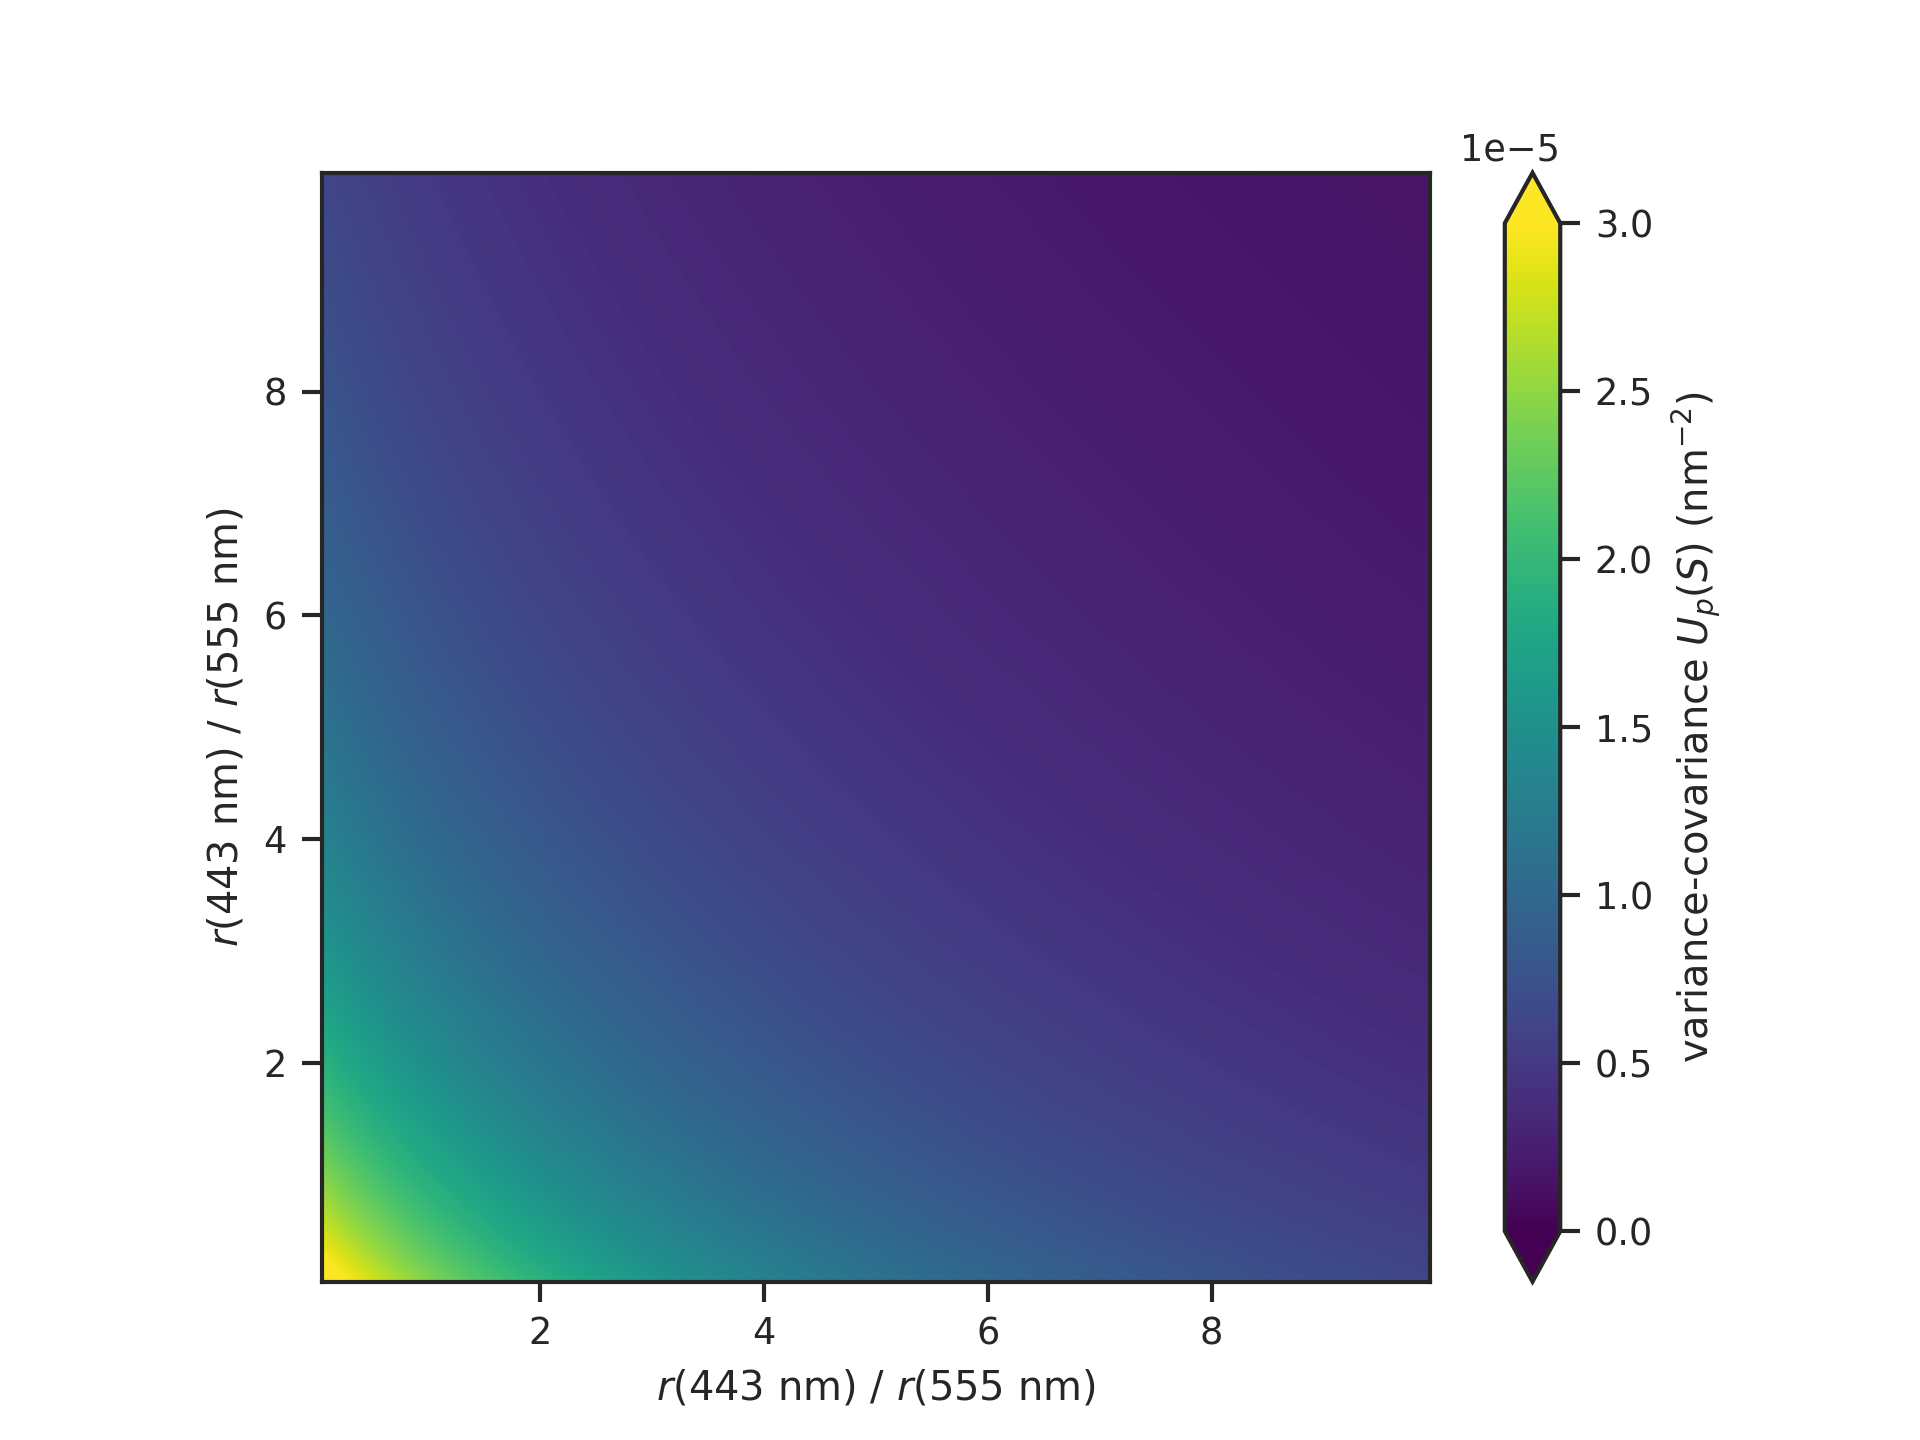
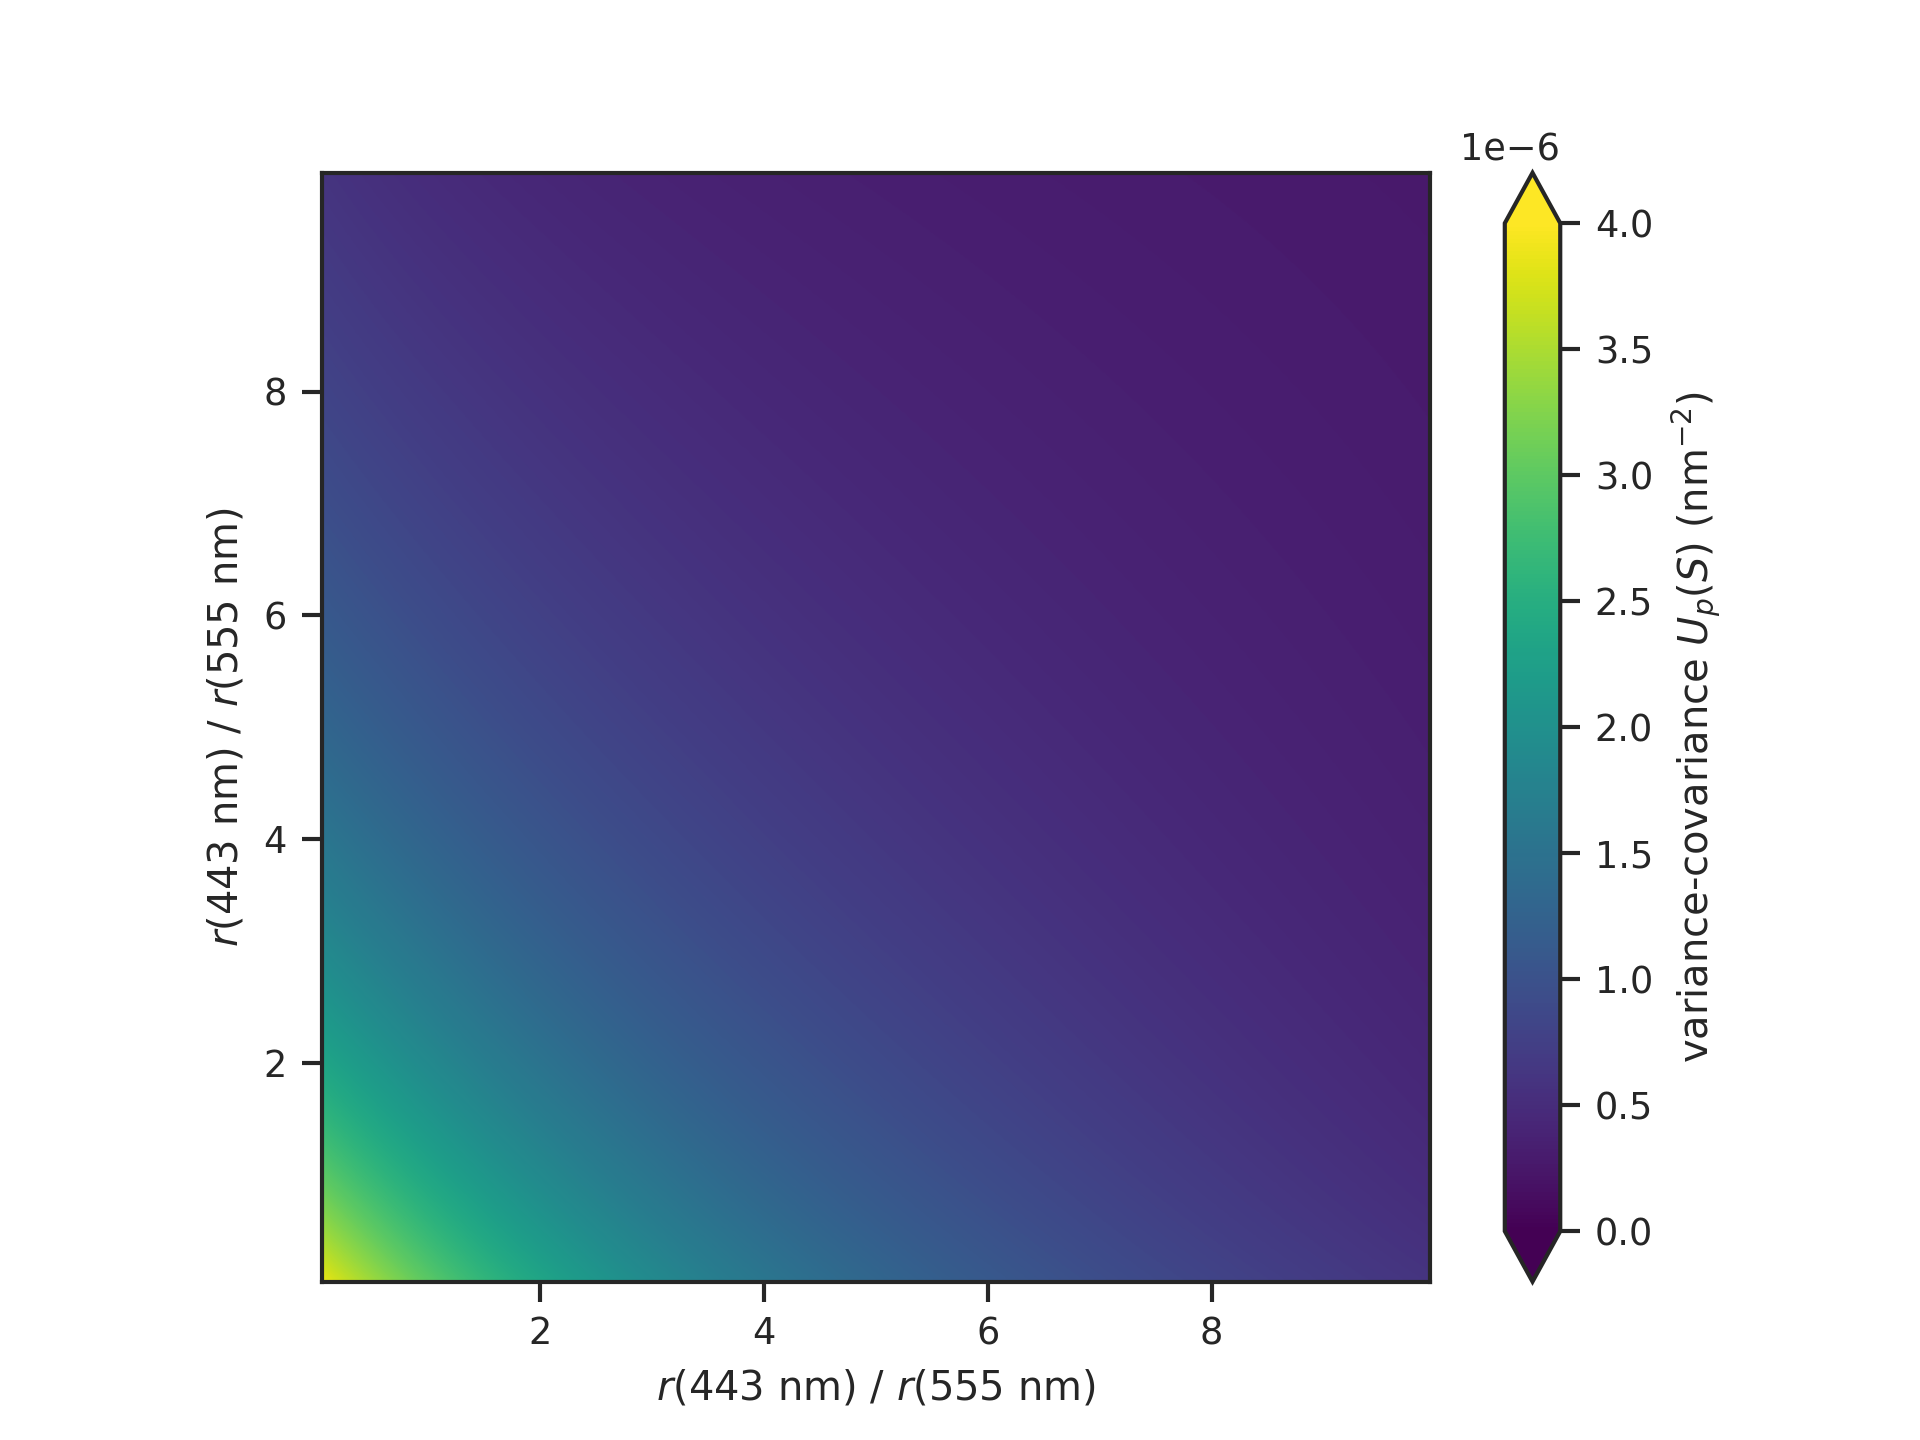
Fix: NaN in prior term

diff --git a/uncertaintyx/fit/eiv/jax.py b/uncertaintyx/fit/eiv/jax.py
@@ -5,13 +5,11 @@ from typing import Callable
 
 import jax
 import jax.numpy as jnp
+import jax.numpy.linalg as jli
+import jax.scipy.linalg as jla
 import numpy as np
 import optax
 from jax import Array
-from jax.numpy.linalg import norm
-from jax.scipy.linalg import cho_factor
-from jax.scipy.linalg import cho_solve
-from optax import lbfgs
 
 from ...interface.core import Fitting
 from ...interface.core import M
@@ -26,10 +24,11 @@ def evm_fit(
     y: Array,
     ux: Array,
     uy: Array,
+    up: Array | None = None,
     *,
-    diagonalize: bool = True,
     max_i: int = 100,
-    max_g: Any = 1.0e-06,
+    max_g: Any = 1.0e-08,
+    diagonalize: bool = True,
 ) -> tuple[Any, ...]:
     r"""
     Implementation of the effective variance method (EVM) with
@@ -46,6 +45,9 @@ def evm_fit(
         U(Y) \in \mathbb{R}^{M \times n \times n}, \quad
         U(Y) \in \mathbb{R}^{M \times n},
 
+        U(p) \in \mathbb{R}^{k \times k}, \quad
+        U(p) \in \mathbb{R}^{k},
+
     Otherwise, under the same notation as :class:`EIV`:
 
     :param f: The model function.
@@ -54,25 +56,25 @@ def evm_fit(
     :param y: Samples :math:`Y \in \mathbb{R}^{M \times n}`.
     :param ux: Uncertainty tensor :math:`U(X)`, full or diagonal.
     :param uy: Uncertainty tensor :math:`U(Y)`, full or diagonal.
-    :param diagonalize: Propagate full input uncertainty, use only
-    the output diagonal.
+    :param up: Uncertainty tensor :math:`U(p)`, full or diagonal.
     :param max_i: The maximum number of iterations permitted.
     :param max_g: The maximum gradient permitted.
+    :param diagonalize: Use only diagonal of uncertainty propagation output.
     :returns: The minimization loop state.
     """
 
-    def g(p: Array, x: Array) -> Array:
+    def g(q: Array, x: Array) -> Array:
         r"""
         The sample Jacobian.
 
-        :param p: The parameters.
+        :param q: The parameters.
         :param x: A sample :math:`x \in \mathbb{R}^{m}`
-        :returns: :math:`(G_x f)(p, x) \in \mathbb{R}^{n \times m}`
+        :returns: :math:`(G_x f)(q, x) \in \mathbb{R}^{n \times m}`
         """
         return (
-            jax.jacrev(f, argnums=1)(p, x)
+            jax.jacrev(f, argnums=1)(q, x)
             if y.size < x.size
-            else jax.jacfwd(f, argnums=1)(p, x)
+            else jax.jacfwd(f, argnums=1)(q, x)
         )
 
     def upc(d: int, G: Array, U: Array) -> Array:  # noqa: N806
@@ -101,11 +103,11 @@ def evm_fit(
         dims = tuple(range(-d, 0))
         return jnp.sum(jnp.tensordot(G, U, axes=(dims, dims)) * G, axis=dims)
 
-    def loss(p: Array, x: Array, y: Array, ux: Array, uy: Array) -> Array:
+    def loss(q: Array, x: Array, y: Array, ux: Array, uy: Array) -> Array:
         r"""
         The sample loss function.
 
-        :param p: The parameters.
+        :param q: The parameters.
         :param x: The sample :math:`x \in \mathbb{R}^{m}`.
         :param y: The sample :math:`y \in \mathbb{R}^{n}`.
         :param ux: :math:`U(x) \in \mathbb{R}^{m \times m}`.
@@ -113,8 +115,8 @@ def evm_fit(
 
         :returns: The sample loss.
         """
-        d = f(p, x) - y
-        G = g(p, x)  # noqa: N806
+        d = f(q, x) - y
+        G = g(q, x)  # noqa: N806
         if diagonalize:
             U = (  # noqa: N806
                 jnp.diag(uy.reshape((y.size, y.size))).reshape(y.shape)
@@ -123,26 +125,42 @@ def evm_fit(
             ) + upd(x.ndim, G, ux)
             b = d / U
         else:
-            d = d.reshape(-1)
+            d = d.reshape(y.size)
             U = (  # noqa: N806
                 uy.reshape((y.size, y.size))
                 if uy.ndim != y.ndim
                 else jnp.diag(uy.reshape(y.size))
             ) + upc(x.ndim, G, ux).reshape((y.size, y.size))
-            L = cho_factor(U)  # noqa: N806
-            b = cho_solve(L, d)
+            L = jla.cho_factor(U)  # noqa: N806
+            b = jla.cho_solve(L, d)
         return 0.5 * jnp.sum(d * b)
 
-    def S(p: Array) -> Array:  # noqa: N806
+    def prior(q: Array) -> Array:
+        """
+        The prior loss function.
+
+        :param q: The parameters.
+        :returns: The prior loss.
+        """
+        d = jnp.reshape(q - p, p.size)
+        b = (
+            jli.pinv(up.reshape(p.size, p.size)) @ d
+            if up.ndim != p.ndim
+            else jnp.where(up > 0.0, 1.0 / up, 0.0) * d
+        )
+        return 0.5 * jnp.sum(d * b)
+
+    def S(q: Array) -> Array:  # noqa: N806
         """
         The misfit function to minimize.
 
-        :param p: The parameters.
+        :param q: The parameters.
         :returns: The misfit.
         """
-        return jnp.sum(
-            jax.vmap(loss, in_axes=(None, 0, 0, 0, 0))(p, x, y, ux, uy)
+        term = jnp.sum(
+            jax.vmap(loss, in_axes=(None, 0, 0, 0, 0))(q, x, y, ux, uy)
         )
+        return term if up is None else term + prior(q)
 
     def cond(carry: tuple[Any, ...]) -> Array:
         """
@@ -167,10 +185,10 @@ def evm_fit(
         )
         popt = optax.apply_updates(popt, u)
         cost, grad = cost_and_grad(popt, state=state)
-        converged = norm(grad, ord=jnp.inf) < max_g  # noqa
+        converged = jli.norm(grad, ord=jnp.inf) < max_g  # noqa
         return i + 1, popt, state, cost, grad, converged
 
-    optim = lbfgs()
+    optim = optax.lbfgs()
     state = optim.init(p)
     cost_and_grad = optax.value_and_grad_from_state(S)
     cost, grad = cost_and_grad(p, state=state)
@@ -209,6 +227,7 @@ class EIV(Fitting):
         *,
         ux: np.ndarray | None = None,
         uy: np.ndarray | None = None,
+        up: np.ndarray | None = None,
         max_iter: int = 100,
         **kwargs,
     ) -> Result:
@@ -223,6 +242,7 @@ class EIV(Fitting):
         :param y: Samples :math:`Y \in \mathbb{R}^{M \times n}`.
         :param ux: Standard uncertainties :math:`u(X)`.
         :param uy: Standard uncertainties :math:`u(Y)`.
+        :param up: Standard uncertainties :math:`u(p)`.
         :param max_iter: The maximum number of iterations conducted.
         :returns: The fit result.
         """
@@ -233,6 +253,7 @@ class EIV(Fitting):
             jnp.asarray(y),
             jnp.square(ux) if ux is not None else jnp.ones_like(x),
             jnp.square(uy) if uy is not None else jnp.ones_like(y),
+            jnp.square(up) if up is not None else None,
             max_i=max_iter,
             **kwargs,
         )

diff --git a/test/oceancolour/test_qaa.py b/test/oceancolour/test_qaa.py
@@ -7,7 +7,7 @@ from importlib import resources
 import numpy as np
 import pandas as pd
 
-from uncertaintyx.fit.eiv.numpy import EIV
+from uncertaintyx.fit.eiv.jax import EIV
 from uncertaintyx.fit.randomsampling import Bootstrap
 from uncertaintyx.fit.regression import HomoscedasticRegression
 from uncertaintyx.oceancolour.qaa import E
@@ -88,12 +88,16 @@ class QaaTest(unittest.TestCase):
         """
         x, y = read_plot_data("test.resources", "fig2.csv")
 
-        result = Bootstrap(HomoscedasticRegression(EIV())).fit(E(), x, y)
+        result = Bootstrap(HomoscedasticRegression(EIV())).fit(
+            E(), x, y, up=np.array([0.5, 0.5, 0.5])
+        )
 
         self.assertEqual(0, result.info)
-        self.assertAlmostEqual(2.0, result.popt[0], delta=0.2)
-        self.assertAlmostEqual(0.7, result.popt[1], delta=0.2)
-        self.assertAlmostEqual(0.2, result.punc[0], delta=0.1)
+        self.assertAlmostEqual(2.0, result.popt[0], delta=1.0)
+        self.assertAlmostEqual(1.2, result.popt[1], delta=1.0)
+        self.assertAlmostEqual(0.9, result.popt[1], delta=1.0)
+        self.assertAlmostEqual(0.1, result.punc[0], delta=0.1)
+        self.assertAlmostEqual(0.1, result.punc[1], delta=0.1)
         self.assertAlmostEqual(0.1, result.punc[1], delta=0.1)
         self.assertAlmostEqual(0.3, result.rvar, delta=0.1)
 
@@ -119,10 +123,10 @@ class QaaTest(unittest.TestCase):
             ylabel=r"$r(443~\mathrm{nm})$ / $r(555~\mathrm{nm})$",
             xrange=(0.5, 4.5),
             yrange=(0.5, 4.5),
-            cmap="cividis",
+            cmap="viridis",
             cbar_label=r"variance-covariance $U_p(\eta)$",
-            cbar_max=0.035,
-            cbar_min=-0.035,
+            cbar_max=0.01,
+            cbar_min=0.00,
             savefig="qaa2-ycov.png",
         )
 
@@ -136,10 +140,12 @@ class QaaTest(unittest.TestCase):
         result = Bootstrap(HomoscedasticRegression(EIV())).fit(S(), x, y)
 
         self.assertEqual(0, result.info)
-        self.assertAlmostEqual(0.017, result.popt[0], delta=0.001)
-        self.assertAlmostEqual(0.000, result.popt[1], delta=0.02)
-        self.assertAlmostEqual(0.000, result.popt[2], delta=5.0)
+        self.assertAlmostEqual(0.015, result.popt[0], delta=0.005)
+        self.assertAlmostEqual(0.0, result.popt[1], delta=0.1)
+        self.assertAlmostEqual(0.0, result.popt[2], delta=5.0)
         self.assertAlmostEqual(0.001, result.punc[0], delta=0.001)
+        self.assertAlmostEqual(0.001, result.punc[0], delta=0.001)
+        self.assertAlmostEqual(5.0, result.punc[0], delta=5.0)
         self.assertAlmostEqual(1.5e-05, result.rvar, delta=0.1e-05)
 
         print()
@@ -153,7 +159,7 @@ class QaaTest(unittest.TestCase):
             y,
             title="Replica of Lee et al. (2010, Figure 3)",
             xlabel=r"$r(443~\mathrm{nm})$ / $r(555~\mathrm{nm})$",
-            ylabel=r"S ($\mathrm{nm}^{-1}$)",
+            ylabel=r"$S$ ($\mathrm{nm}^{-1}$)",
             xrange=(0.050, 9.950),
             yrange=(0.005, 0.035),
             savefig="qaa3.png",
@@ -166,8 +172,8 @@ class QaaTest(unittest.TestCase):
             yrange=(0.05, 9.95),
             cmap="viridis",
             cbar_label=r"variance-covariance $U_p(S)$ ($\mathrm{nm}^{-2}$)",
-            cbar_max=3.0e-05,
-            cbar_min=0.0e-05,
+            cbar_max=4.0e-06,
+            cbar_min=0.0e-06,
             savefig="qaa3-ycov.png",
         )
 

diff --git a/uncertaintyx/fit/regression.py b/uncertaintyx/fit/regression.py
@@ -28,9 +28,7 @@ class HomoscedasticRegression(Fitting):
         """
         self._eiv = eiv
 
-    def fit(
-        self, f: M, x: np.ndarray, y: np.ndarray, *, max_iter: int = 100
-    ) -> Result:
+    def fit(self, f: M, x: np.ndarray, y: np.ndarray, **kwargs) -> Result:
         r"""
         Fits the parameters of a model function to :math:`M`
         samples :math:`(x_i, y_i) \in \mathbb{R}^{m \times n}`
@@ -41,10 +39,9 @@ class HomoscedasticRegression(Fitting):
         :param f: The model function.
         :param x: Samples :math:`X \in \mathbb{R}^{M \times m}`.
         :param y: Samples :math:`Y \in \mathbb{R}^{M \times n}`.
-        :param max_iter: The maximum number of iterations conducted.
         :returns: The fit result.
         """
-        return self._eiv.fit(f, x, y)
+        return self._eiv.fit(f, x, y, **kwargs)
 
 
 class HomoHeteroscedasticRegression(Fitting):
@@ -71,7 +68,7 @@ class HomoHeteroscedasticRegression(Fitting):
         y: np.ndarray,
         *,
         u: np.ndarray,
-        max_iter: int = 100,
+        **kwargs,
     ) -> Result:
         r"""
         Fits the parameters of a model function to :math:`M`
@@ -83,10 +80,9 @@ class HomoHeteroscedasticRegression(Fitting):
         :param x: Samples :math:`X \in \mathbb{R}^{M \times m}`.
         :param y: Samples :math:`Y \in \mathbb{R}^{M \times n}`.
         :param u: Standard uncertainties :math:`u(X)`.
-        :param max_iter: The maximum number of iterations conducted.
         :returns: The fit result.
         """
-        return self._eiv.fit(f, x, y, uy=u)
+        return self._eiv.fit(f, x, y, uy=u, **kwargs)
 
 
 class HeteroHomoscedasticRegression(Fitting):
@@ -113,7 +109,7 @@ class HeteroHomoscedasticRegression(Fitting):
         y: np.ndarray,
         *,
         u: np.ndarray,
-        max_iter: int = 100,
+        **kwargs,
     ) -> Result:
         r"""
         Fits the parameters of a model function to :math:`M`
@@ -125,10 +121,9 @@ class HeteroHomoscedasticRegression(Fitting):
         :param x: Samples :math:`X \in \mathbb{R}^{M \times m}`.
         :param y: Samples :math:`Y \in \mathbb{R}^{M \times n}`.
         :param u: Standard uncertainties :math:`u(Y)`.
-        :param max_iter: The maximum number of iterations conducted.
         :returns: The fit result.
         """
-        return self._eiv.fit(f, x, y, ux=u)
+        return self._eiv.fit(f, x, y, ux=u, **kwargs)
 
 
 class HeteroscedasticRegression(Fitting):
@@ -158,7 +153,7 @@ class HeteroscedasticRegression(Fitting):
         *,
         ux: np.ndarray,
         uy: np.ndarray,
-        max_iter: int = 100,
+        **kwargs,
     ) -> Result:
         r"""
         Fits the parameters of a model function to :math:`M`
@@ -171,7 +166,6 @@ class HeteroscedasticRegression(Fitting):
         :param y: Samples :math:`Y \in \mathbb{R}^{M \times n}`.
         :param ux: Standard uncertainties :math:`u(X)`.
         :param uy: Standard uncertainties :math:`u(Y)`.
-        :param max_iter: The maximum number of iterations conducted.
         :returns: The fit result.
         """
-        return self._eiv.fit(f, x, y, ux=ux, uy=uy)
+        return self._eiv.fit(f, x, y, ux=ux, uy=uy, **kwargs)

diff --git a/uncertaintyx/oceancolour/qaa.py b/uncertaintyx/oceancolour/qaa.py
@@ -215,7 +215,7 @@ class QAA(ToM):
             return (u * a) / (1.0 - u) - bw
 
         def _e(i, e0=2.0, e1=1.2, e2=0.9):
-            """
+            r"""
             Returns the coefficient :math:`\eta`.
 
             :param i: The blue to green spectral index.
@@ -352,7 +352,7 @@ class QAA(ToM):
 
 
 class E(ToM):
-    """
+    r"""
     Empirical model function to fit data in Lee et al. (2010, Figure 2)
     for the :math:`\eta` coefficient.
     """
@@ -360,8 +360,8 @@ class E(ToM):
     def __init__(self):
         def f(p, x):
             """The model function."""
-            a, c = p
-            return a * (1.0 - 1.2 * jnp.exp(-c * x))
+            a, b, c = p
+            return a * (1.0 - b * jnp.exp(-c * x))
 
         super().__init__(f)
 
@@ -371,11 +371,11 @@ class E(ToM):
         y: np.ndarray | None = None,
         preset: str | None = None,
     ) -> np.ndarray:
-        return np.array([2.0, 0.9])
+        return np.array([2.0, 1.2, 0.9])
 
 
 class S(ToM):
-    """
+    r"""
     Empirical model function to fit data in Lee et al. (2010, Figure 3)
     for the :math:`S` coefficient.
     """